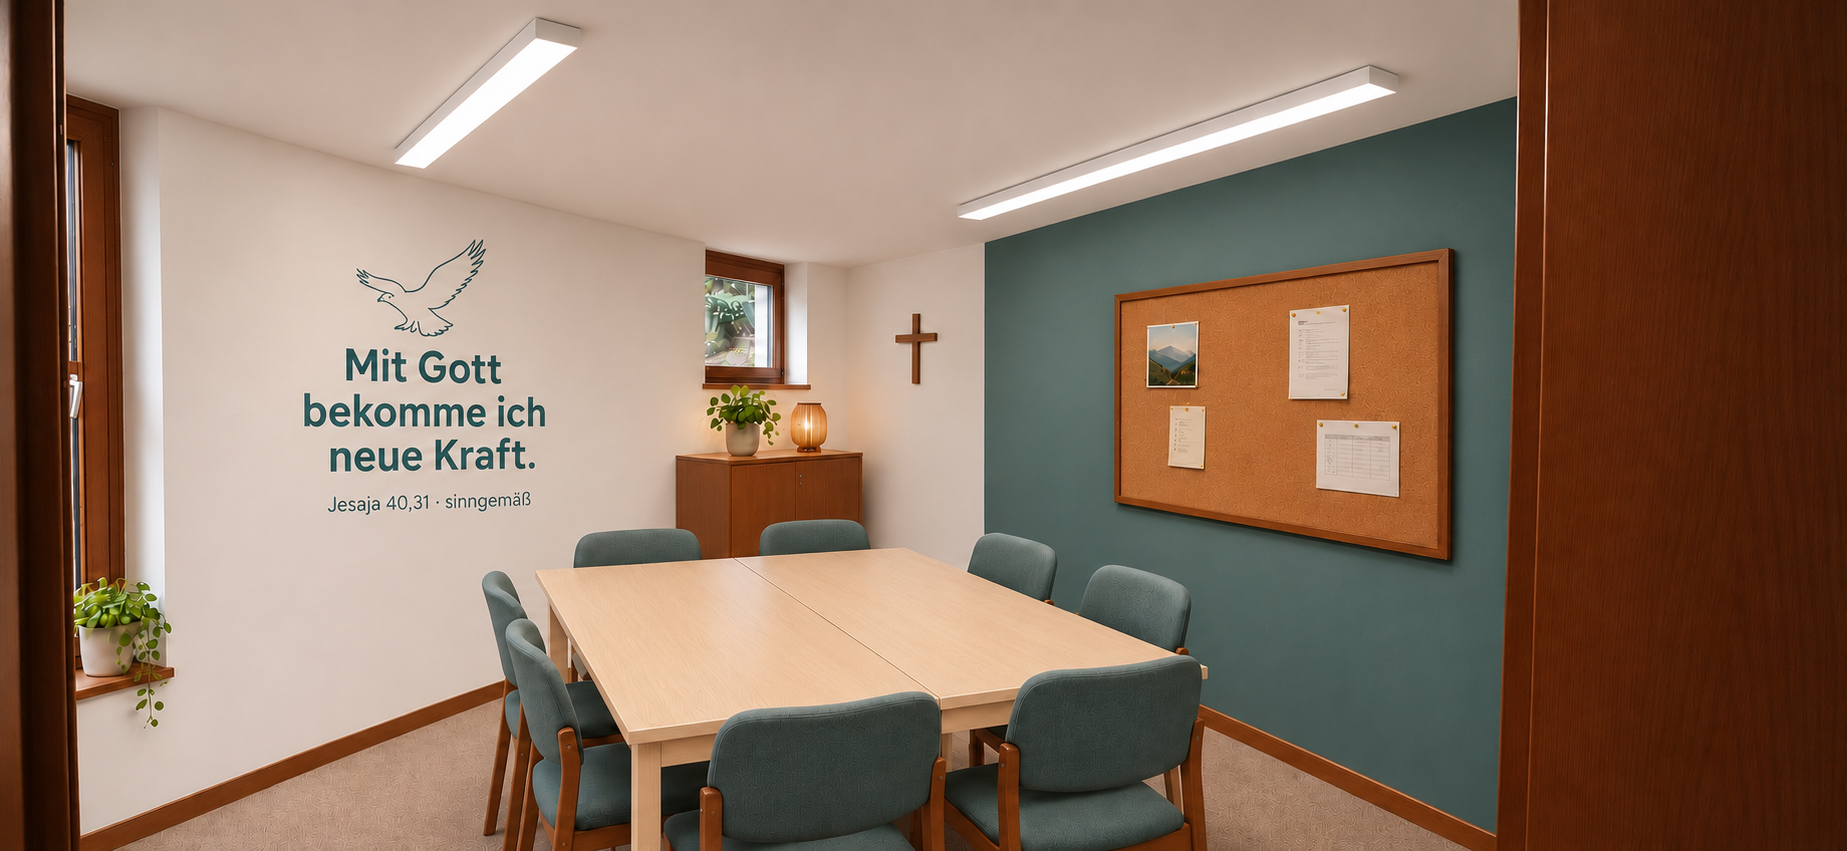
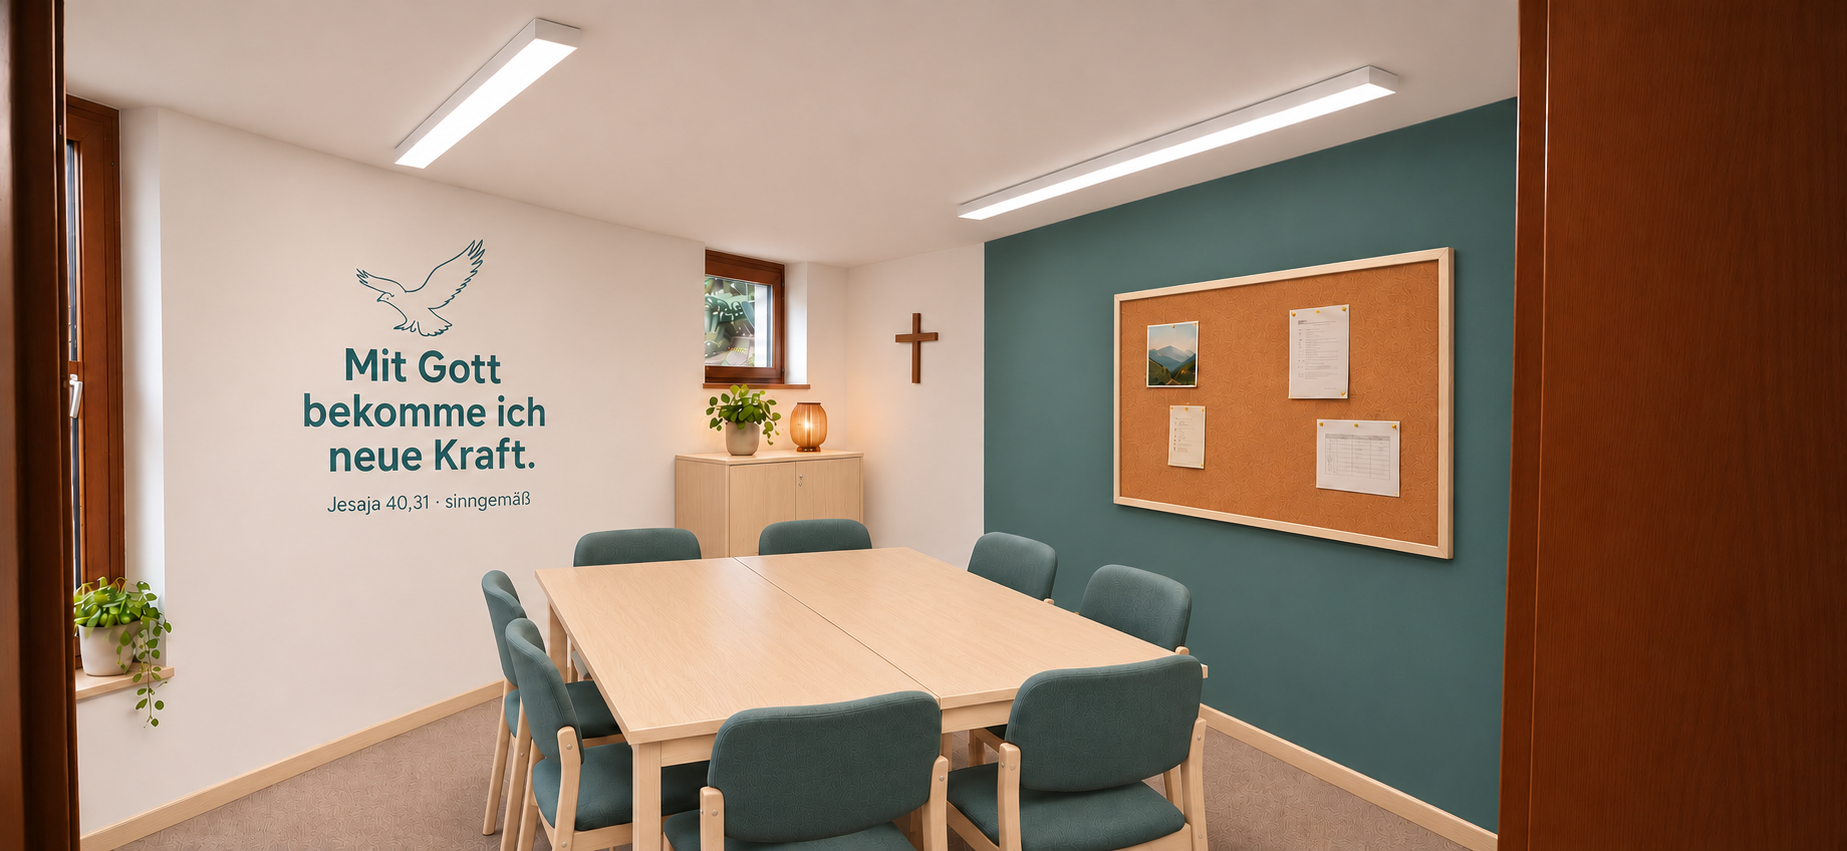
Unify group-room furniture wood and skirting in pale natural finish

diff --git a/index.html b/index.html
@@ -5,7 +5,7 @@
 <header class="top"><a href="#" class="brand"><span class="symbol" aria-hidden="true">⌂</span><span>Gemeindehaus<small>Kellerrenovierung</small></span></a><div class="top-right"><span class="version">Arbeitsstand 04</span></div></header>
 <main>
  <section class="intro"><div class="intro-copy"><h1>Unsere Kellerräume</h1><p class="lead">Ein erster Gestaltungsvorschlag. Zwischen Original und Entwurf wechseln oder Bilder anklicken zum Vergrößern; Rückmeldungen einfach mit der jeweiligen Bildnummer weitergeben.</p></div></section>
- <section class="principles" aria-label="Gemeinsame Gestaltung"><p><span>Die gemeinsame Linie</span>Vorhandenes Türholz · helle Wände · geschlossener Stauraum · Licht aus sichtbaren Leuchten</p><button id="openAbout" class="link-button">Hinweise zu den Bildern ⓘ</button></section>
+ <section class="principles" aria-label="Gemeinsame Gestaltung"><p><span>Die gemeinsame Linie</span>Vorhandenes Türholz · helles Möbelholz · helle Wände · geschlossener Stauraum · Licht aus sichtbaren Leuchten</p><button id="openAbout" class="link-button">Hinweise zu den Bildern ⓘ</button></section>
  <section class="gallery" id="galerie" aria-label="Konzeptbilder nach Räumen">
   <nav class="filter-bar" aria-label="Zu den Räumen"><div id="roomLinks" class="filters"></div><span class="count">12 Ansichten</span></nav>
   <div id="galleryContent"></div>
@@ -14,6 +14,6 @@
 </main>
 <footer><span>Gemeindehaus · Kellerrenovierung · Arbeitsstand 04</span><span>Konzeptbilder zur Abstimmung, keine Ausführungsplanung</span></footer>
 <dialog id="viewer" aria-labelledby="viewerTitle"><div class="viewer-header"><div><span class="image-code" id="viewerCode"></span><h2 id="viewerTitle"></h2></div><button class="icon-button close" id="closeViewer" aria-label="Bildansicht schließen">×</button></div><div id="viewerComparison"></div><div class="viewer-image-area"><img id="viewerImage" alt=""><button class="image-step previous" id="previousImage" aria-label="Vorheriges Bild">←</button><button class="image-step next" id="nextImage" aria-label="Nächstes Bild">→</button><div class="image-toolbar"><span id="imagePosition"></span><a id="originalLink" href="#" target="_blank" rel="noopener">Bilddatei öffnen ↗</a></div></div></dialog>
-<dialog id="about" aria-labelledby="aboutTitle"><div class="about-head"><span class="eyebrow">ZUM ARBEITSSTAND</span><button id="closeAbout" class="icon-button" aria-label="Hinweise schließen">×</button></div><h2 id="aboutTitle">Bilder für die gemeinsame Abstimmung</h2><p>Die Ansichten entwickeln die frühen perspektivischen Entwürfe auf Grundlage der Bestandsfotos weiter. Jede Ansicht zeigt eine feste Blickrichtung. Zwei zusätzliche Fluransichten halten den Adler-Zugang und die Zwischentreppe sichtbar.</p><p>Die Bilder zeigen Gestaltungsrichtungen. Einzelne Details können zwischen Ansichten abweichen. Die Raumaufteilung richtet sich nach dem Bestand; genaue Maße und die Ausführung sind noch zu prüfen.</p><h3>Beleuchtung</h3><p>Leuchten sind mit sichtbaren, plausiblen Montageorten dargestellt. Die Bildhelligkeit ist keine Lichtberechnung. Anzahl, Lichtleistung, Gleichmäßigkeit und Blendung müssen anhand der Raummaße und konkreter Leuchten geprüft werden.</p><h3>Was wir erhalten und weiterentwickeln</h3><ul><li>Vorhandene braune Holztüren und Zargen als Materialbezug.</li><li>Geschlossener Stauraum und freie Durchgänge.</li><li>Bei Schwalben: links Basteln auf abwischbarem Boden, rechts neue Sitzmöbel auf Teppich; eigene Leuchten unter der niedrigeren Decke.</li><li>Ein lebhafterer Spatzen-Raum und gestaltete Bibelverse. Wortlaut und Übersetzung bleiben abzustimmen.</li></ul></dialog>
+<dialog id="about" aria-labelledby="aboutTitle"><div class="about-head"><span class="eyebrow">ZUM ARBEITSSTAND</span><button id="closeAbout" class="icon-button" aria-label="Hinweise schließen">×</button></div><h2 id="aboutTitle">Bilder für die gemeinsame Abstimmung</h2><p>Die Ansichten entwickeln die frühen perspektivischen Entwürfe auf Grundlage der Bestandsfotos weiter. Jede Ansicht zeigt eine feste Blickrichtung. Zwei zusätzliche Fluransichten halten den Adler-Zugang und die Zwischentreppe sichtbar.</p><p>Die Bilder zeigen Gestaltungsrichtungen. Einzelne Details können zwischen Ansichten abweichen. Die Raumaufteilung richtet sich nach dem Bestand; genaue Maße und die Ausführung sind noch zu prüfen.</p><h3>Beleuchtung</h3><p>Leuchten sind mit sichtbaren, plausiblen Montageorten dargestellt. Die Bildhelligkeit ist keine Lichtberechnung. Anzahl, Lichtleistung, Gleichmäßigkeit und Blendung müssen anhand der Raummaße und konkreter Leuchten geprüft werden.</p><h3>Was wir erhalten und weiterentwickeln</h3><ul><li>Vorhandene braune Holztüren und Zargen bleiben als Bestand erhalten.</li><li>In Adler, Spatzen und Schwalben: helles Holz für Tische, Stuhlgestelle, weitere Möbelholzflächen und Sockelleisten. Farbige Polster und lackierte Fronten ergänzen diese gemeinsame Linie.</li><li>Geschlossener Stauraum und freie Durchgänge.</li><li>Bei Schwalben: links Basteln auf abwischbarem Boden, rechts neue Sitzmöbel auf Teppich; eigene Leuchten unter der niedrigeren Decke.</li><li>Ein lebhafterer Spatzen-Raum und gestaltete Bibelverse. Wortlaut und Übersetzung bleiben abzustimmen.</li></ul></dialog>
 <noscript><p>Bitte JavaScript aktivieren, um die Galerie zu nutzen. Die Bilddateien liegen im Ordner assets.</p></noscript>
 </body></html>

diff --git a/README.md b/README.md
@@ -18,3 +18,7 @@ Kein Build und kein Serverprogramm erforderlich. Keine Anmeldung, keine Kommenta
 Die Bilder sind Gestaltungsentwürfe, keine maßstäbliche Ausführungsplanung oder Lichtberechnung. Einzelne Details können zwischen den Ansichten abweichen. Die finale Bildserie für PowerPoint folgt nach der Abstimmung.
 
 `Bildbriefings.json` enthält die verwendeten Bildbriefings zur späteren Überarbeitung.
+
+## Gemeinsame Holzlinie der Gruppenräume
+
+In Adler, Spatzen und Schwalben erhalten Tische, hölzerne Stuhlgestelle, weitere Möbelholzflächen, Pinnwandrahmen und Sockelleisten denselben hellen Naturholzton. Farbige Polster und lackierte Fronten bleiben erhalten. Vorhandene Türen und Zargen bleiben vorerst als braune Ausnahme bestehen. Durchblicke aus anderen Räumen müssen dieselbe Möbelfarbe zeigen.
